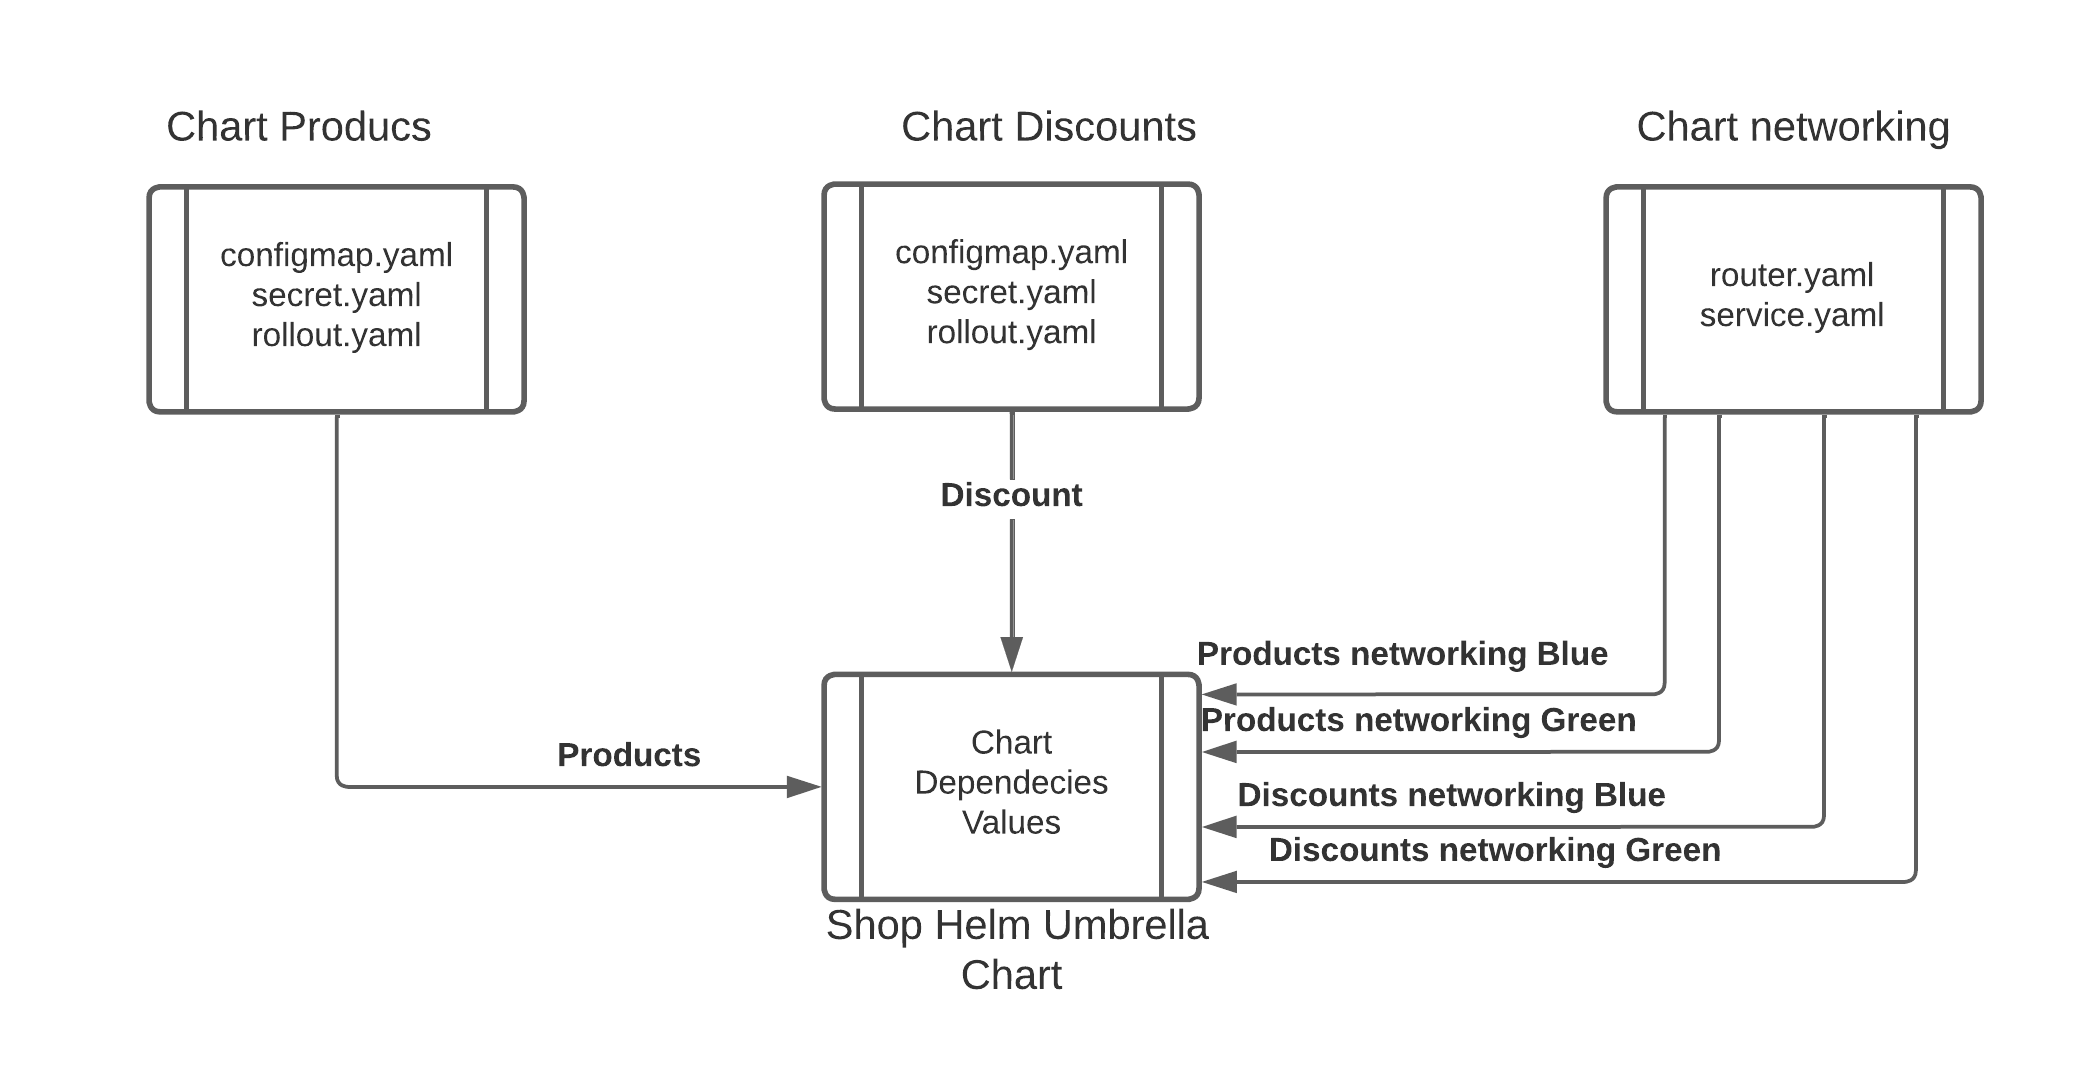
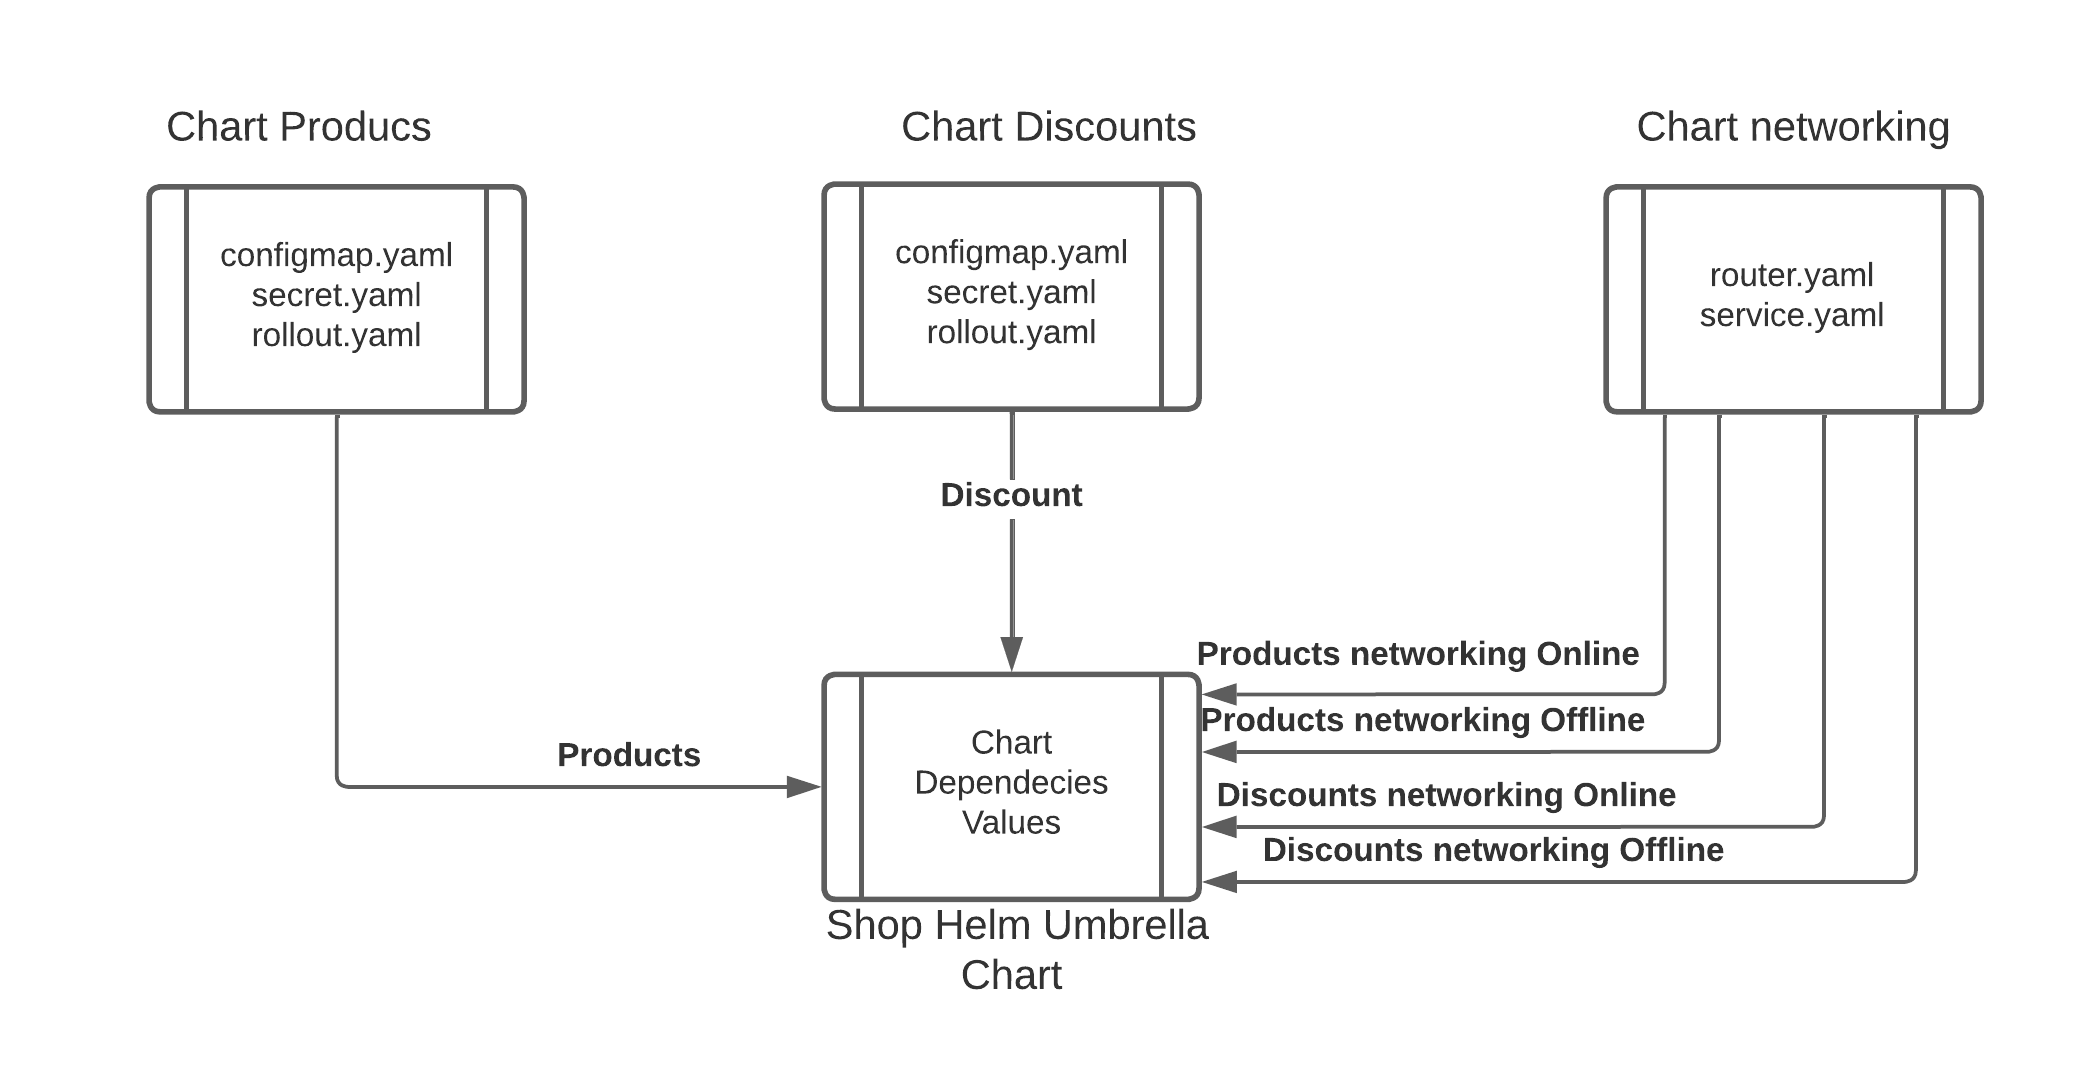
improve rollout readme

diff --git a/blue-green-argo-rollouts/README.md b/blue-green-argo-rollouts/README.md
@@ -58,60 +58,8 @@ We have created a chart for each application that does not know anything about b
 
 ![Shop Umbrella Helm Chart](../images/Shop-helm-rollouts.png)
 
-In the `Shop Umbrella Chart` we use several times the same charts as helm dependencies but with different names if they are blue/green or online/offline. This will allow us to have different configurations for each color.
+In the `Shop Umbrella Chart` we use several times the same charts as helm dependencies but with different names if they are online/offline. This will allow us to have different configurations for each color.
  
-This is the Chart.yaml
-```
-apiVersion: v2
-name: shop-umbrella-blue-green
-description: A Helm chart for Kubernetes
-type: application
-version: 0.1.0
-appVersion: "1.16.0"
- 
-dependencies:
- - name: quarkus-helm-discounts
-   version: 0.1.0
-   alias: discounts-blue
-   tags:
-     - discounts-blue
- - name: quarkus-helm-discounts
-   version: 0.1.0
-   alias: discounts-green
-   tags:
-     - discounts-green
- - name: quarkus-base-networking
-   version: 0.1.0
-   alias: discountsNetworkingOnline 
-   tags:
-     - discountsNetworkingOnline
- - name: quarkus-base-networking
-   version: 0.1.0
-   alias: discountsNetworkingOffline
-   tags:
-     - discountsNetworkingOffline
- - name: quarkus-helm-products
-   version: 0.1.0
-   alias: products-blue
-   tags:
-     - products-blue
- - name: quarkus-helm-products
-   version: 0.1.0
-   alias: products-green
-   tags:
-     - products-green
- - name: quarkus-base-networking
-   version: 0.1.0
-   alias: productsNetworkingOnline
-   tags:
-     - productsNetworkingOnline
- - name: quarkus-base-networking
-   version: 0.1.0
-   alias: productsNetworkingOffline
-   tags:
-     - productsNetworkingOffline
-```
-
 We have packaged both applications in one chart, but we may have different umbrella charts per application.
 ## Demo!!
 
